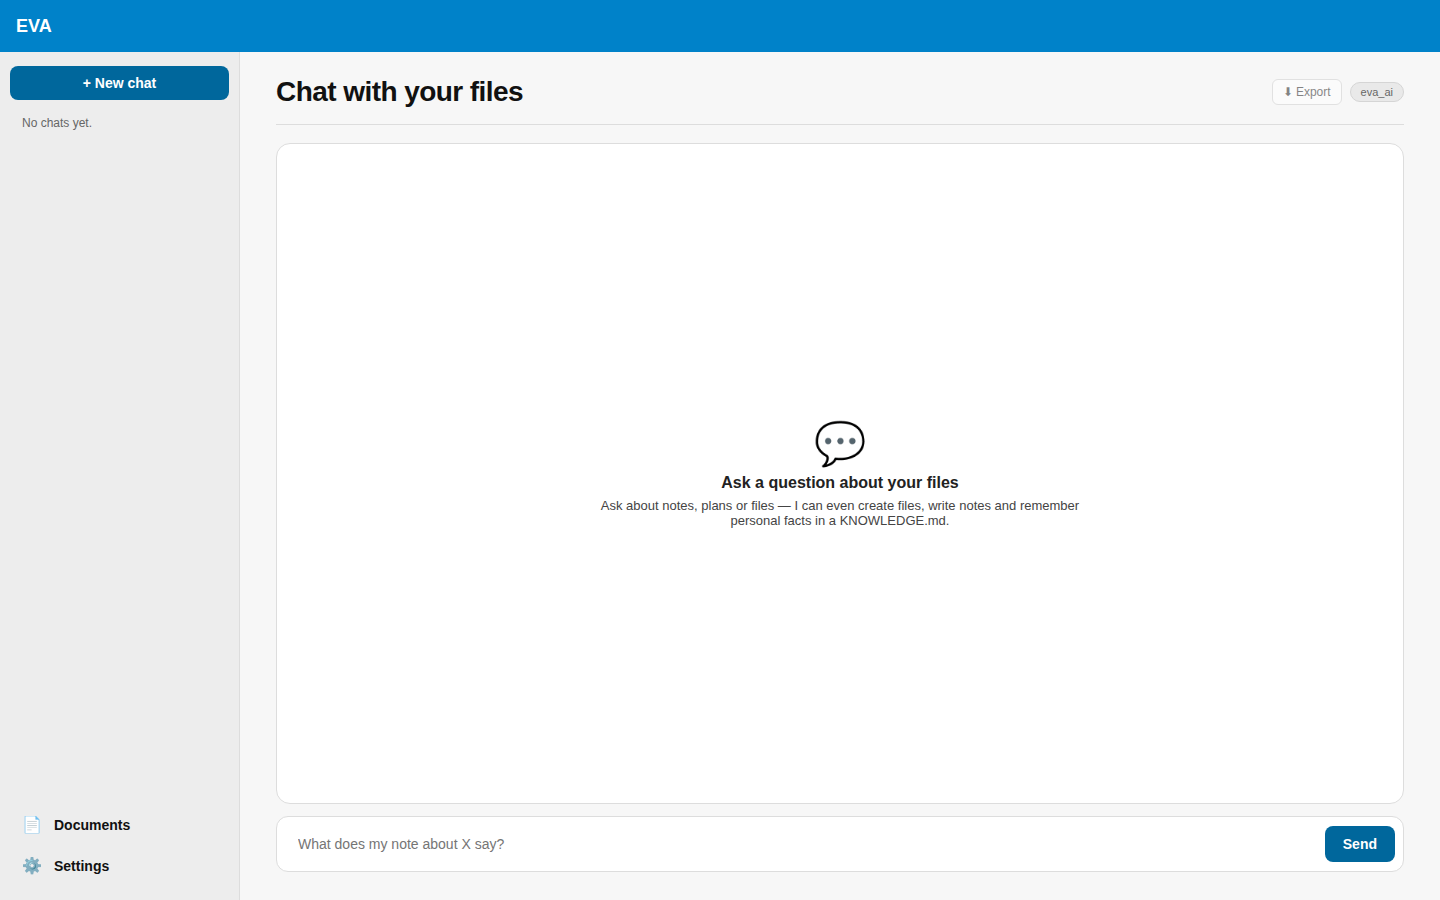
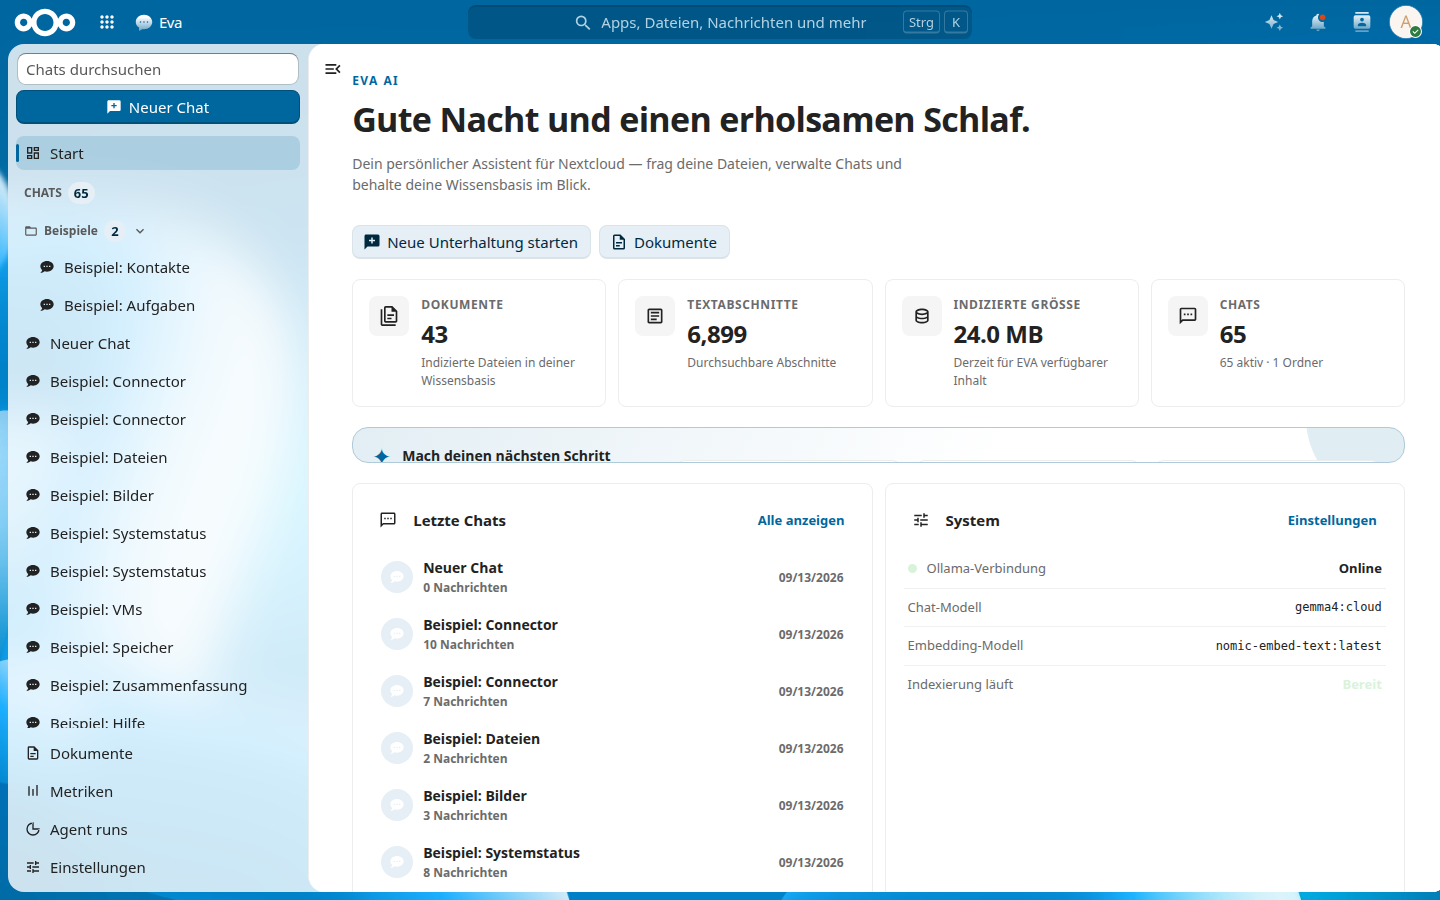
docs: replace standalone screenshots with real Nextcloud views

diff --git a/README.md b/README.md
@@ -6,9 +6,15 @@ Eva is a privacy-first AI assistant for your Nextcloud. It combines semantic and
 
 ![Eva chat overview](screenshots/eva-chat-overview.png)
 
-![Cited answers from your files](screenshots/eva-cited-answer.png)
+![Eva settings in Nextcloud](screenshots/eva-settings.png)
 
-![Confirmation before a write action](screenshots/eva-safe-actions.png)
+![Eva document index in Nextcloud](screenshots/eva-documents.png)
+
+![Eva usage metrics in Nextcloud](screenshots/eva-metrics.png)
+
+All screenshots above show the real Eva app inside the Nextcloud shell (not the
+legacy standalone page). Private chat and file labels were anonymised before
+publication.
 
 [![License: AGPL v3](https://img.shields.io/badge/License-AGPL%20v3-blue.svg)](https://www.gnu.org/licenses/agpl-3.0)
 [![Nextcloud](https://img.shields.io/badge/Nextcloud-30--35-blue)](https://nextcloud.com)
